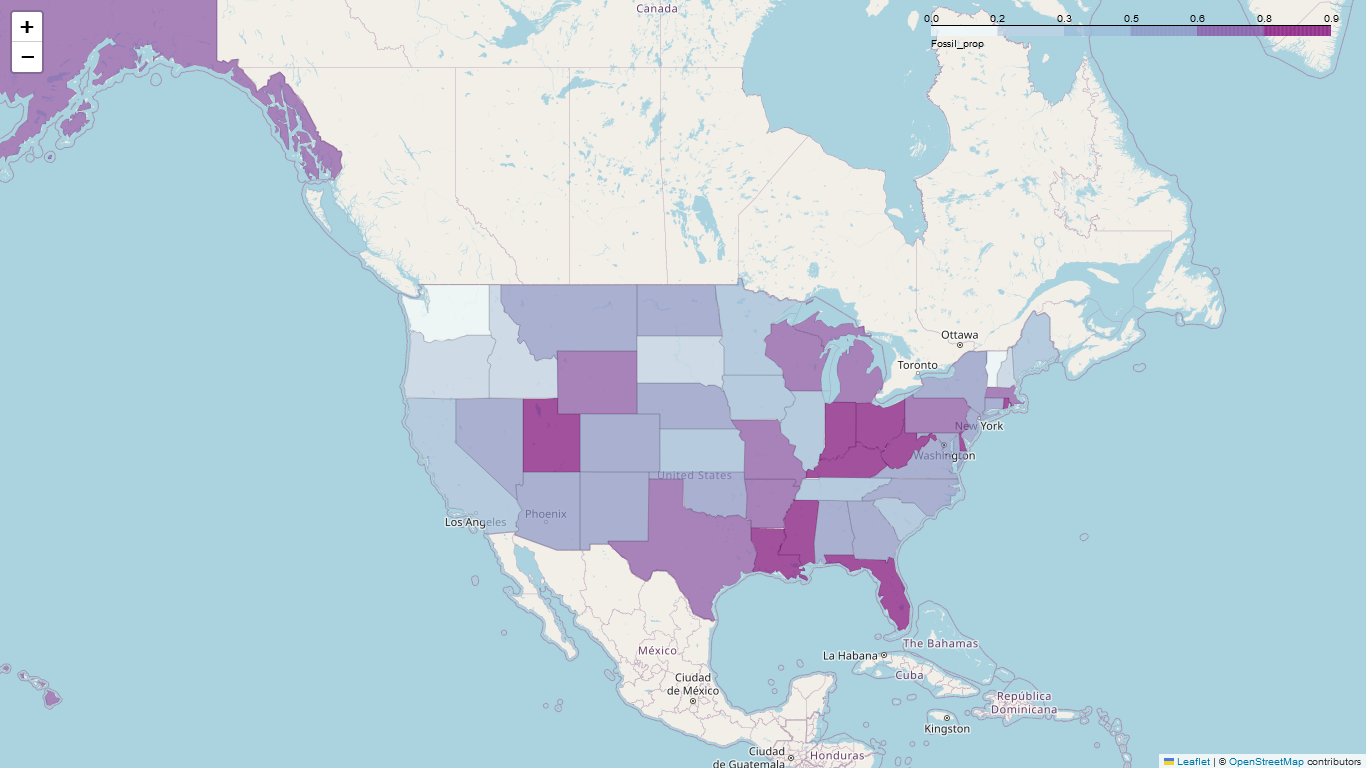
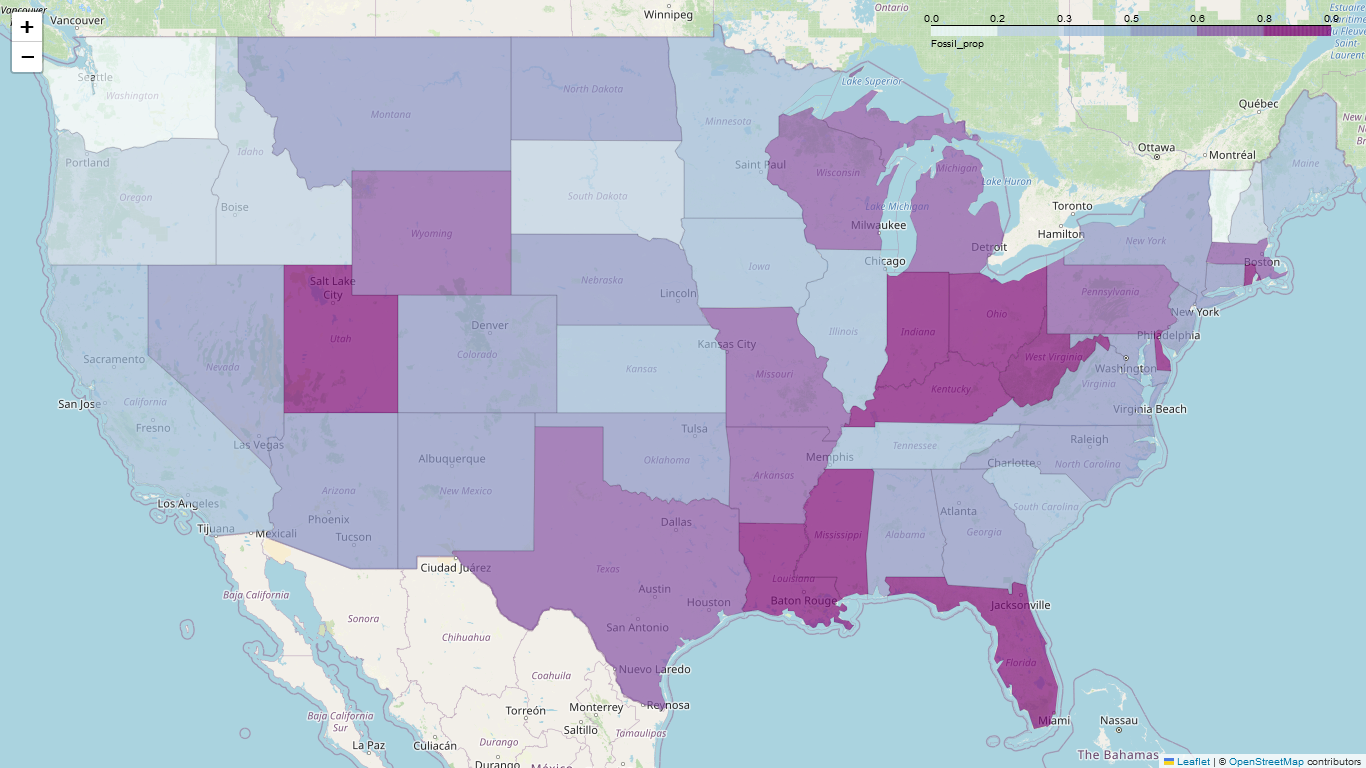
Prettied up the state gran maps

diff --git a/Visualization/plot_creation.py b/Visualization/plot_creation.py
@@ -101,10 +101,10 @@ state_df = load_state_data(combined_df, load=True)
 # bar_plot_demo_split(state_df, demos=["black_prop", "Median_income", "Republican_prop"], key="carbon_offset_metric_tons", type="diff")
 # bar_plot_demo_split(state_df, demos=["black_prop", "Median_income", "Republican_prop"], key="existing_installs_count_per_capita",type="diff")
 
-bar_plot_demo_split(state_df, demos=["black_prop", "white_prop", "Median_income", "yearly_sunlight_kwh_kw_threshold_avg", "Republican_prop"], xticks=['Black', 'White', 'Median income', 'Yeary Sunlight', 'Republican'], key="carbon_offset_metric_tons_per_panel", type="percent", stacked=True, ylabel="", title="Carbon Offset Per Panel vs National Average")
-bar_plot_demo_split(state_df, demos=["black_prop", "white_prop","Median_income", "yearly_sunlight_kwh_kw_threshold_avg", "Republican_prop"], key="panel_utilization", xticks=['Black', 'White','Median income', 'Yeary Sunlight', 'Republican'] , type="percent", stacked=True, ylabel="", title="Panel Utilization vs National Average")
+# bar_plot_demo_split(state_df, demos=["black_prop", "white_prop", "Median_income", "yearly_sunlight_kwh_kw_threshold_avg", "Republican_prop"], xticks=['Black', 'White', 'Median income', 'Yeary Sunlight', 'Republican'], key="carbon_offset_metric_tons_per_panel", type="percent", stacked=True, ylabel="", title="Carbon Offset Per Panel vs National Average")
+# bar_plot_demo_split(state_df, demos=["black_prop", "white_prop","Median_income", "yearly_sunlight_kwh_kw_threshold_avg", "Republican_prop"], key="panel_utilization", xticks=['Black', 'White','Median income', 'Yeary Sunlight', 'Republican'] , type="percent", stacked=True, ylabel="", title="Panel Utilization vs National Average")
 
-quit()
+# quit()
 
 # for key in ['carbon_offset_metric_tons_per_panel', 'carbon_offset_metric_tons']:
     # state_stats = stats_for_states(combined_df, key)
@@ -134,7 +134,7 @@ quit()
 # for key in ['carbon_offset_metric_tons_per_panel', 'Median_income', 'solar_potential_per_capita', 'solar_utilization', 'panel_utilization']:
 
 # # Example Geo Plot (map of us)
-geo_plot(combined_df['carbon_offset_metric_tons_per_panel'] ,'rainbow', "Carbon offset per panel", pos_df)
+# geo_plot(combined_df['carbon_offset_metric_tons_per_panel'] ,'rainbow', "Carbon offset per panel", pos_df)
 # geo_plot(combined_df['existing_installs_count'] ,'rainbow', "Existing Installs", pos_df)
 # geo_plot(combined_df['number_of_panels_total'] ,'rainbow', "Panel Total", pos_df)
 # geo_plot(combined_df['panel_utilization'] ,'rainbow', "Panel Util", pos_df)
@@ -150,10 +150,10 @@ print("Plotting")
 # states = ['California']
 # combined_df = combined_df[combined_df['state_name'].isin(states)]
 # scatter_plot(x=np.log(combined_df['carbon_offset_metric_tons']), y=np.log(combined_df['existing_installs_count']), xlabel="Log Potential carbon offset", ylabel="Log Existing Panel Count", title=None, fit=[1,2], log=False, color="red")
-co_bins_quartile = q_binning(combined_df['carbon_offset_metric_tons'].values, 'carbon_offset_metric_tons', q=2, legible_label="Carbon Offset" )
-co_per_bins_quartile = q_binning(combined_df['carbon_offset_metric_tons_per_panel'].values, 'carbon_offset_metric_tons_per_panel',q=4, legible_label="Carbon Offset Per Panel")
-complex_scatter(combined_df=combined_df, x=combined_df['carbon_offset_metric_tons'], y=combined_df['existing_installs_count'], xlabel="Potential carbon offset (Metric Tons)", ylabel="Existing Installed Panels", title=None, bins=co_bins_quartile, fit=[2], legend=True)
-scatter_plot(x=combined_df['carbon_offset_metric_tons_per_panel'], y=combined_df['existing_installs_count_per_capita'], xlabel="Potential carbon offset per panel", ylabel="Existing Panel Count Per Capita", title=None, fit=[2], log=False, color="red")
+# co_bins_quartile = q_binning(combined_df['carbon_offset_metric_tons'].values, 'carbon_offset_metric_tons', q=2, legible_label="Carbon Offset" )
+# co_per_bins_quartile = q_binning(combined_df['carbon_offset_metric_tons_per_panel'].values, 'carbon_offset_metric_tons_per_panel',q=4, legible_label="Carbon Offset Per Panel")
+# complex_scatter(combined_df=combined_df, x=combined_df['carbon_offset_metric_tons'], y=combined_df['existing_installs_count'], xlabel="Potential carbon offset (Metric Tons)", ylabel="Existing Installed Panels", title=None, bins=co_bins_quartile, fit=[2], legend=True)
+# scatter_plot(x=combined_df['carbon_offset_metric_tons_per_panel'], y=combined_df['existing_installs_count_per_capita'], xlabel="Potential carbon offset per panel", ylabel="Existing Panel Count Per Capita", title=None, fit=[2], log=False, color="red")
 
 # Shows where we should put panels
 # geo_plot(np.log(combined_df['carbon_offset_metric_tons'] * combined_df['existing_installs_count']) ,'rainbow', "Carbon offset Per Capita", pos_df)
@@ -186,17 +186,22 @@ exemplar_states = ['Texas', 'California', 'Mississippi', 'Delaware', 'Massachuse
 
 # state_bar_plot(state_df, states=exemplar_states, keys=['carbon_offset_metric_tons_per_panel', 'existing_installs_count_per_capita', 'Median_income'], sort_by='carbon_offset_metric_tons_per_panel', ylabel=key, title="By state stats")
 
+no_dc = state_df['State code'].isin(["DC", "HI"])
 
-plot_state_map(state_df, key='carbon_offset_metric_tons_per_panel')
+state_df_no_dc = state_df[~no_dc]
+
+# plot_state_map(state_df, key='carbon_offset_metric_tons_per_panel', fill_color='OrRd', legend_name="Carbon Offset Per Panel")
 # plot_state_map(state_df, key='Fossil_prop')
-# plot_state_map(state_df, key='Democrat_prop')
-# plot_state_map(state_df, key='Republican_prop')
-# plot_state_map(state_df, key='Median_income') 
-# plot_state_map(state_df, key='black_prop')
+# plot_state_map(state_df[no_dc], key='Democrat_prop')
+# plot_state_map(state_df_no_dc, key='panel_utilization', fill_color='OrRd', legend_name="Panel Utilization")
+# plot_state_map(state_df, key='Republican_prop', legend_name="Republican Voter Proportion")
+# plot_state_map(state_df, key='Median_income', legend_name="Median Income") 
+# plot_state_map(state_df, key='black_prop', legend_name="Black Population Proportion")
 # plot_state_map(state_df, key='white_prop')  
 # plot_state_map(state_df, key='carbon_offset_metric_tons')
-# plot_state_map(state_df, key='existing_installs_count')
-# plot_state_map(state_df, key='Clean_prop')
+# plot_state_map(state_df[no_dc], key='existing_installs_count')
+# plot_state_map(state_df, key='yearly_sunlight_kwh_kw_threshold_avg', legend_name="Yearly Average Sunlight")
+# plot_state_map(state_df, key='Clean_prop', legend_name="Clean Energy Gen Proportion")
 # plot_state_map(state_df, key='Solar_prop')
 
 # Supporting plots (shows energy generation Splits)

diff --git a/Visualization/plot_util.py b/Visualization/plot_util.py
@@ -9,6 +9,7 @@ import seaborn as sns
 import folium as fl
 import io
 from PIL import Image
+import branca.colormap as cm
 
 def fit_dat_and_plot(x, y, deg, label="", label_plot=False, log=False):
 
@@ -196,17 +197,20 @@ def state_bar_plot(energy_gen_df, states=['Texas', 'Massachusetts', "California"
     plt.title(title)
     plt.show()
 
-def plot_state_map(stats_df, key, fill_color="BuPu"):
+def plot_state_map(stats_df, key, fill_color="BuPu", zoom=4.8, location=[38,-96.5], legend_name=None):
 
     url = (
         "https://raw.githubusercontent.com/python-visualization/folium/main/examples/data"
     )
     state_geo = f"{url}/us-states.json"
 
-    m = fl.Map([43, -100], zoom_start=4)
+    m = fl.Map(location, zoom_start=zoom, zoom_control=False)
+
+    if legend_name is None:
+        legend_name = key
 
     fl.Choropleth(geo_data=state_geo, data=stats_df,
-    columns=['State code', key],key_on='feature.id',fill_color=fill_color, fill_opacity=0.7,line_opacity=.1,legend_name=key).add_to(m)
+    columns=['State code', key],key_on='feature.id', fill_color=fill_color, line_weight=1, fill_opacity=0.7, line_opacity=.5,legend_name=legend_name).add_to(m)
 
     img_data = m._to_png(5)
     img = Image.open(io.BytesIO(img_data))
